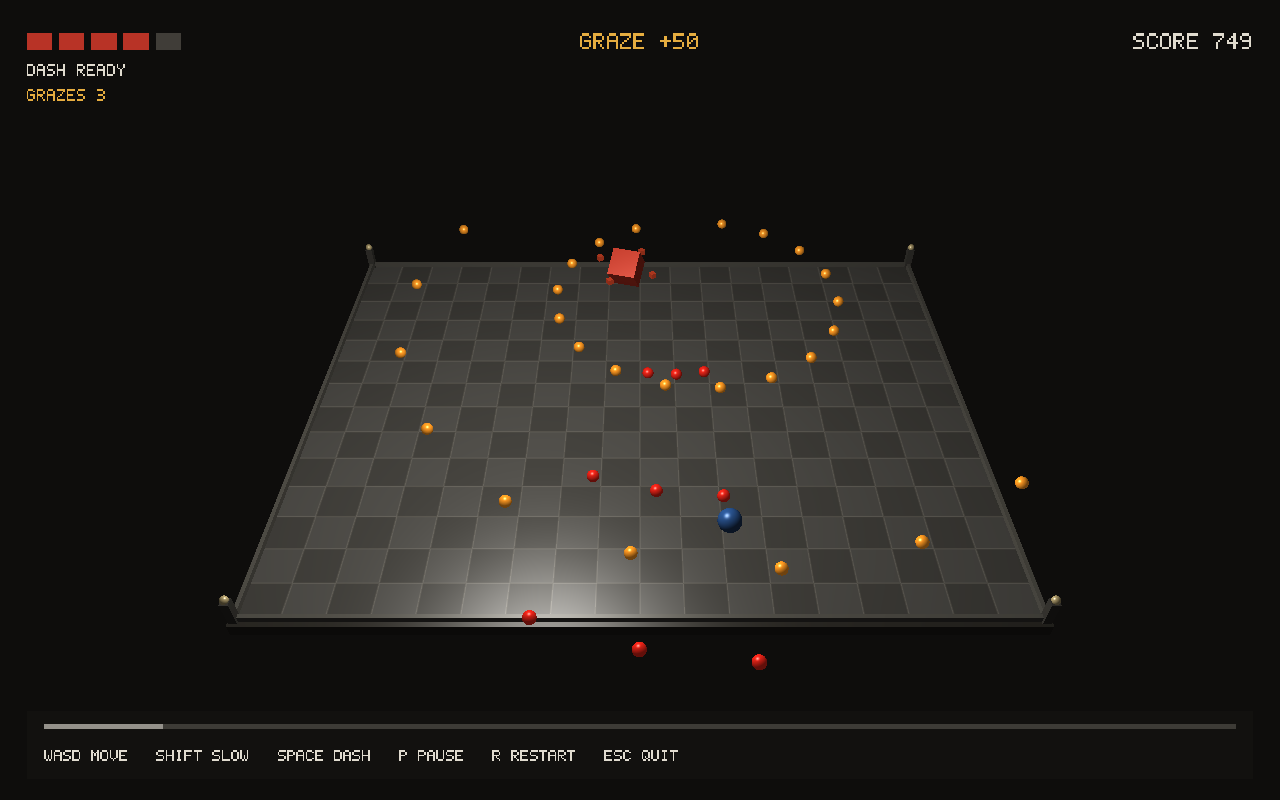
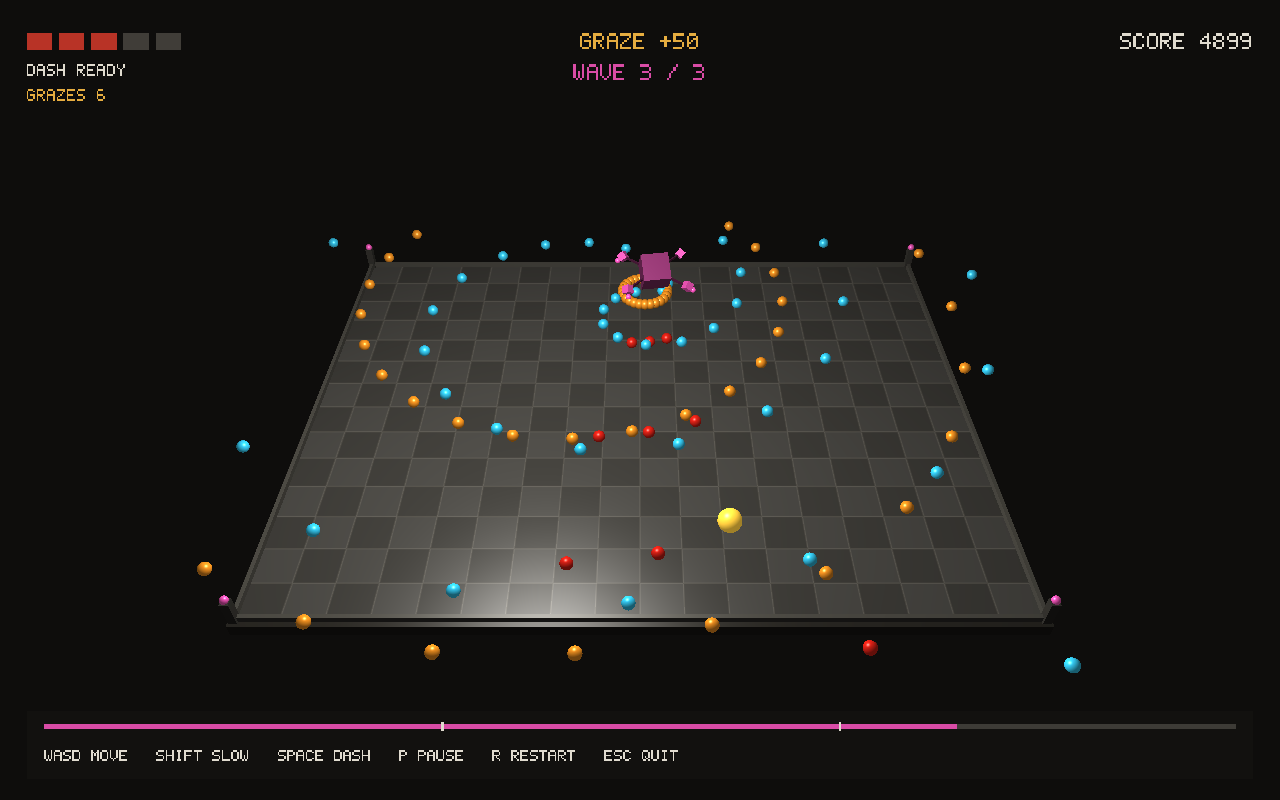
Update report and slides for integrated rendering

diff --git a/tools/make_submission.py b/tools/make_submission.py
@@ -181,20 +181,20 @@ def make_slides():
 
     slide = base_slide(pres, "The actual running scene", 4)
     slide.shapes.add_picture(str(screenshot), Inches(2.65), Inches(1.45), width=Inches(8.0))
-    add_text(slide, "Figure 1: captured from the 360-frame OpenGL smoke test", 2.65, 6.58, 8, 0.32, 15, MUTED)
+    add_text(slide, "Figure 1: actual third-wave OpenGL smoke capture", 2.65, 6.58, 8, 0.32, 15, MUTED)
 
     slide = base_slide(pres, "Geometry, camera, and shading", 5)
     bullet(slide, "Cube and generated sphere meshes use positions, normals, and UVs.", 1.55)
-    bullet(slide, "GLM builds model, lookAt view, and perspective projection matrices.", 2.45)
-    bullet(slide, "One fragment shader adds ambient, diffuse, specular, and emission.", 3.35)
-    bullet(slide, "A simple local light keeps the shapes readable during play.", 4.25)
+    bullet(slide, "Boss parent → orbit pivot → satellite → beacon inherit transforms.", 2.45)
+    bullet(slide, "GLM builds model, lookAt view, and perspective projection matrices.", 3.35)
+    bullet(slide, "The fragment shader adds ambient, diffuse, specular, and emission.", 4.25)
     add_text(slide, "Lectures L3–L5 and L9", 0.85, 5.8, 11, 0.4, 18, GOLD)
 
     slide = base_slide(pres, "Textures and animation", 6)
     bullet(slide, "C++ creates a 64×64 checker image and uploads it as an OpenGL texture.", 1.55)
     bullet(slide, "UV coordinates repeat the checker across the arena floor.", 2.45)
     bullet(slide, "World-space grid lines add a small procedural visual effect.", 3.35)
-    bullet(slide, "Sine movement and timers animate the boss and projectile patterns.", 4.25)
+    bullet(slide, "Time animates the boss; amber, blue, and magenta mark the waves.", 4.25)
     add_text(slide, "Lectures L8–L10", 0.85, 5.8, 11, 0.4, 18, GOLD)
 
     slide = base_slide(pres, "Gameplay code: small, testable rules", 7)
@@ -206,15 +206,15 @@ def make_slides():
 
     slide = base_slide(pres, "Testing and measured performance", 8)
     bullet(slide, "Rules test covers movement, collision, dash, graze, pause, restart, and win/loss.", 1.55)
-    bullet(slide, "OpenGL smoke test drew 360 frames with no GL errors.", 2.65)
-    bullet(slide, "One Xvfb + Mesa llvmpipe run: 88.2 frames/s, 205 MiB max RSS.", 3.75)
-    bullet(slide, "Software rendering at 1280×800; not a GPU benchmark.", 4.85, color=GOLD)
+    bullet(slide, "Three wave smoke checks drew 360 frames each with no GL errors.", 2.65)
+    bullet(slide, "Integrated wave 3: 35.8 frames/s, 224.7 MiB max RSS, 105 shots.", 3.75)
+    bullet(slide, "Single-run Xvfb software rendering at 1280×800.", 4.85, color=GOLD)
 
     slide = base_slide(pres, "Teamwork and academic integrity", 9)
     bullet(slide, "Mukhammed: gameplay, tests, integration, report and presentation drafts.", 1.55)
-    bullet(slide, "Ali: rendering, hierarchical boss model, shaders, and visual review (in progress).", 2.55)
+    bullet(slide, "Ali: hierarchical boss and wave visuals in main.cpp; rendering checks.", 2.55)
     bullet(slide, "Both retain original Git history and commit under their own identities.", 3.55)
-    bullet(slide, "Codex assisted with planning, code suggestions, testing, and documents.", 4.55)
+    bullet(slide, "Codex assisted both students with code, testing, and documents.", 4.55)
     add_text(slide, "Every submitted result needs student review and explanation.",
              0.85, 5.75, 11.8, 0.55, 20, GOLD)
 

diff --git a/docs/REPORT_DRAFT.md b/docs/REPORT_DRAFT.md
@@ -10,9 +10,9 @@
 
 Orbit Bullet Hell is a short C++ and OpenGL game in which the player survives a 60-second encounter with a moving boss. It was made to demonstrate the graphics pipeline taught in Computer Graphics Fundamentals while still being a complete interactive application. The player moves on an arena, avoids projectiles, gains points for surviving and narrowly missing a shot, and can slow down or dash to react to difficult patterns. The scene gives us a concrete reason to use geometry, transformations, a perspective camera, lighting, texture coordinates, GPU buffers, animation, and a two-dimensional heads-up display (HUD). Figure 1 shows an actual frame from the tested build.
 
-![Figure 1. Orbit Bullet Hell running on Mesa llvmpipe.](figures/gameplay.png)
+![Figure 1. Integrated third-wave scene running on Mesa llvmpipe.](figures/gameplay.png)
 
-Figure 1 illustrates the 3D arena, textured floor, boss, moving projectiles, player, and HUD. The capture was produced by the game's OpenGL smoke-test mode. The YouTube demonstration and code walkthrough will be available at the link on the title page after the team publishes it.
+Figure 1 illustrates the 3D arena, textured floor, hierarchical boss, moving projectiles, player, and HUD. The magenta wave label and progress bar identify wave 3; red shots are aimed, amber shots are radial, and cyan shots belong to the rotating stream. The capture was produced by `--smoke-wave 3`, a rendering test shortcut that starts at the third-wave boundary. It does not claim a player survived the earlier waves. The YouTube demonstration and code walkthrough will be available at the link on the title page after the team publishes it.
 
 ## 2. Literature Review and Background
 
@@ -24,7 +24,7 @@ Reeves [9] introduced particle systems as an approach to animated visual effects
 
 Collision work by Klosowski et al. [14] and Teschner et al. [15] shows techniques for larger or deformable scenes. Our projectiles and player are rigid spheres. Checking the distance from each projectile center to the player center once per fixed update is sufficient for the tested active projectile count. The comparison matters because it explains why we did not add a spatial tree or physics engine to a small student project.
 
-All 15 references are peer-reviewed articles in journals selected for Q1/Q2 standing in the relevant computer-science categories. Journal rankings depend on year and category; the venue checks and DOI links are recorded in `docs/RESEARCH_NOTES.md`. These papers are contextual sources. We do not claim to implement their advanced rendering or collision algorithms.
+All 15 research articles appear in five journals listed as Q1 or Q2 in the 2024 Journal Citation Reports JIF quartiles [16]. The categories are Computer Science, Software Engineering for four venues and Computer Science, Hardware & Architecture for IEEE Transactions on Computers. These are venue rankings for that year, not article-level ratings or historical ranks at publication. The venue checks and DOI links are recorded in `docs/RESEARCH_NOTES.md`. These papers are contextual sources; we do not claim to implement their advanced rendering or collision algorithms.
 
 ## 3. Project Description
 
@@ -48,9 +48,9 @@ C++17 holds the game state and updates it. GLFW creates the window and reads key
 
 ### 4.2 Development Process and Teamwork
 
-The team started with a playable core, then added dash and graze mechanics and made the three waves distinct. Mukhammed owns gameplay and test files; Ali owns the rendering and shader files for the hierarchical boss and visual pass. We communicate in `docs/coordination/` in the shared repository, review one another's commits, and run the same build and tests after integration. Each person commits under their own identity. Commit count is a rough coordination signal, not a substitute for explaining actual contributions.
+The team started with a playable core, then added dash and graze mechanics and made the three waves distinct. Mukhammed developed gameplay rules, tests, integration, and submission drafts. Ali built the hierarchical boss and wave visual feedback in `main.cpp`, tested all three rendering waves, and reviewed the report. The existing GLSL shader files did not change in Ali's rendering pass. We communicate in `docs/coordination/` in the shared repository, review one another's commits, and run the same build and tests after integration. Each person commits under their own identity. Commit count is a rough coordination signal, not a substitute for explaining actual contributions.
 
-Codex assisted Mukhammed with planning, implementation suggestions, debugging, documentation, and preparation of report materials. The students must read, test, and be able to explain every submitted change. This assistance is disclosed here as required by the syllabus; commit authorship identifies the student directing the work.
+Codex assisted Mukhammed with planning, implementation suggestions, debugging, documentation, and preparation of report materials. Ali also used Codex while implementing, validating, and documenting his rendering pass. The students must read, test, and be able to explain every submitted change. This assistance is disclosed here as required by the syllabus; commit authorship identifies the student directing the work.
 
 ### 4.3 Algorithms and Techniques
 
@@ -58,7 +58,7 @@ The game logic advances in fixed steps of 1/120 second. The render loop collects
 
 Each bullet stores position and velocity. At each step, position changes by velocity multiplied by the time step. A collision occurs when the squared center distance is no greater than the squared sum of the player and bullet radii. A larger radius detects a near miss after a non-hit. The squared comparison avoids a square root in the frequent collision loop. Timers determine when aimed, radial, and rotating shots spawn. The boss position and visual rotation use sine or elapsed-time angles. Shots outside the arena are removed so the active list stays bounded.
 
-For rendering, model matrices place and size meshes, a `lookAt` view matrix aims the camera, and a perspective matrix projects the 3D scene. The vertex shader transforms each vertex through model, view, and projection matrices. The fragment shader samples the floor texture and applies a local light. The HUD is built from colored quads, including a tiny 5-by-7 bitmap-style font, then drawn with alpha blending after the 3D scene.
+For rendering, model matrices place and size meshes, a `lookAt` view matrix aims the camera, and a perspective matrix projects the 3D scene. The vertex shader transforms each vertex through model, view, and projection matrices. Ali's boss uses a translated and rotating parent matrix. Core and heart transforms are children of that parent; orbit pivots hold arms and satellites; small beacons inherit each satellite's transform. The code composes parent and local matrices before drawing. Scale is applied only at the mesh leaves so a scaled core cannot stretch its sibling orbits. The vertex shader uses the inverse transpose of the model matrix for normals after nonuniform scaling. The fragment shader samples the floor texture and applies a local light. The HUD is built from colored quads, including a tiny 5-by-7 bitmap-style font, then drawn with alpha blending after the 3D scene.
 
 ## 5. Graphics and Rendering
 
@@ -72,25 +72,25 @@ The fragment shader calculates a normal, light direction, view direction, diffus
 
 ### 5.3 Texturing and Animation
 
-The checkerboard floor texture is generated in C++ as a 64-by-64 RGB image, uploaded with `glTexImage2D`, and sampled through UV coordinates in the fragment shader. `GL_REPEAT` repeats it across the floor. A separate grid is computed from world coordinates with `fract`, `fwidth`, and `smoothstep`; it is a simple procedural visual effect. The boss moves with time-based sine functions, and the projectile patterns change by wave. The player flashes briefly after damage; the HUD marks health, score, graze events, dash readiness, controls, and round progress. These features connect to lectures L8–L10.
+The checkerboard floor texture is generated in C++ as a 64-by-64 RGB image, uploaded with `glTexImage2D`, and sampled through UV coordinates in the fragment shader. `GL_REPEAT` repeats it across the floor. A separate grid is computed from world coordinates with `fract`, `fwidth`, and `smoothstep`; it is a simple procedural visual effect. The boss's parent bobs and rotates, its satellites orbit faster and farther in later waves, and the beacons inherit the satellites' motion. These movements use elapsed game time, so pause and restart also control the animation. Wave 1 uses amber, wave 2 blue, and wave 3 magenta on the boss, arena corner lights, wave label, and progress bar. Cyan spiral bullets remain distinct from red aimed bullets and amber radial bullets. The player flashes after damage and brightens during dash or graze; the HUD marks health, score, dash readiness, controls, and round progress. These features connect to lectures L8–L10.
 
 ## 6. Testing and Evaluation
 
 ### 6.1 Testing Methodology
 
-The CMake `game_rules` test checks movement speed, arena bounds, dash protection and cooldown, collision grace period, one-time graze scoring, pause and restart, distinct wave patterns, loss, and survival to the 60-second win. The OpenGL smoke test runs 360 rendered frames, checks OpenGL errors, and saves a screenshot. Both passed on the current code. A student should also play the full round on the presentation computer and check controls, readability, window size, and the win and loss screens; the headless test cannot replace that interaction check.
+The CMake `game_rules` test checks movement speed, arena bounds, dash protection and cooldown, collision grace period, one-time graze scoring, pause and restart, distinct wave patterns, loss, and survival to the 60-second win. It passed on the integrated code. Three OpenGL smoke checks each ran 360 rendered frames at the wave 1, 2, and 3 boundaries, checked GL errors, and saved screenshots. All passed. We also recorded and inspected real gameplay footage showing movement, pause, game over, and restart. A student should still play the full round on the presentation computer and check controls, readability, window size, and the win and loss screens; a scripted recording cannot replace that human review.
 
 ### 6.2 Performance Evaluation
 
-One 360-frame smoke run on 9 November 2026 took 4.081 seconds for the game process, or about 88.2 rendered frames per second; maximum resident memory for that child process was about 205 MiB. The machine had an AMD Ryzen 7 7735HS. Rendering used Mesa 26.2.3 `llvmpipe` through Xvfb at 1280 by 800 pixels, so this measures CPU software rendering rather than a dedicated GPU. Vsync was off in smoke mode. The measured active bullet count at the end was 35. These are a single-run development measurement, not a claim about every computer or a complete 60-second session.
+One integrated-build wave-3 smoke run on 9 November 2026 took 10.042 seconds for 360 frames, or about 35.8 rendered frames per second. Maximum resident memory for the child process was about 224.7 MiB, and 105 projectiles were active at the end. The machine had an AMD Ryzen 7 7735HS. Rendering used Mesa 26.2.3 `llvmpipe` through Xvfb at 1280 by 800 pixels, so this measures CPU software rendering rather than a dedicated GPU. Vsync was off in smoke mode. This is a single-run development measurement, not a claim about every computer or a complete 60-second session. The relatively dense sphere mesh drawn for each small bullet is a likely cost; Ali is checking a simpler mesh for the final build.
 
 ### 6.3 Issues and Debugging
 
-The project needed a headless rendering path because this workspace's normal desktop display was not reliable for automated checks. Xvfb with Mesa's software OpenGL renderer let us compile shaders, draw frames, check errors, and capture Figure 1. The game uses a fixed update step to reduce differences between fast and slow displays. Projectile removal limits growth of the bullet list. Moving diagonal input is normalized, and pause freezes timers, preventing inconsistent play. The final visual review and video must use the integrated version after Ali's rendering commits.
+The project needed a headless rendering path because this workspace's normal desktop display was not reliable for automated checks. Xvfb with Mesa's software OpenGL renderer let us compile shaders, draw frames, check errors, and capture Figure 1. A virtual display initially paused the game after a focus-loss event; the recording script now focuses the window and resumes play before capturing. The game uses a fixed update step to reduce differences between fast and slow displays. Projectile removal limits growth of the bullet list. Moving diagonal input is normalized, and pause freezes timers, preventing inconsistent play. The final video should be regenerated after the last rendering change.
 
 ## 7. Conclusion and Future Work
 
-Orbit Bullet Hell combines a complete 60-second game loop with the graphics techniques required by the course: geometry, transformations, camera projection, GPU buffers, fragment shading, texturing, procedural detail, animation, and a HUD. The rules and current OpenGL smoke checks pass. The main limitation is the deliberately simple geometry and lighting. Future work could add sound, more boss forms, particle effects, shadows, and a broader performance comparison, if they remain understandable and useful to gameplay. The final team review will confirm the visual pass and the public demo link before submission.
+Orbit Bullet Hell combines a complete 60-second game loop with the graphics techniques required by the course: geometry, hierarchical transformations, camera projection, GPU buffers, fragment shading, texturing, procedural detail, animation, and a HUD. The rules and all three OpenGL wave checks pass. The main limitations are simple lighting and performance on software rendering with many projectiles. Future work could add sound, more boss forms, particle effects, shadows, and a broader hardware performance comparison, if they remain understandable and useful to gameplay. The final team review will confirm the public demo link before submission.
 
 ## 8. References
 
@@ -109,6 +109,8 @@ Orbit Bullet Hell combines a complete 60-second game loop with the graphics tech
 [13] C. Crassin et al., “Interactive Indirect Illumination Using Voxel Cone Tracing,” *Computer Graphics Forum*, 2011. https://doi.org/10.1111/j.1467-8659.2011.02063.x  
 [14] J. Klosowski et al., “Efficient collision detection using bounding volume hierarchies of k-DOPs,” *IEEE Transactions on Visualization and Computer Graphics*, 1998. https://doi.org/10.1109/2945.675649  
 [15] M. Teschner et al., “Collision Detection for Deformable Objects,” *Computer Graphics Forum*, 2005. https://doi.org/10.1111/j.1467-8659.2005.00829.x
+
+[16] 2024 Journal Citation Reports JIF quartile list, institutional PDF released June 2025. https://cdn.umfcluj.ro/uploads/2024/08/JCR_2024_iunie2025.pdf
 
 ## 9. Appendix
 

diff --git a/docs/DEVELOPMENT_PLAN.md b/docs/DEVELOPMENT_PLAN.md
@@ -17,7 +17,7 @@
 | Shading (L5-2) | Ambient, diffuse, specular, emission | Refine readable lighting and explain the equations |
 | Pixels, buffers, blending (L7) | Depth buffer, blended HUD, screenshot readback | Document depth/blend order and screenshot path |
 | Texture mapping (L8) | UV-mapped checkerboard texture and grid shader | Improve texture filtering if it benefits the scene |
-| Hierarchical models (L9) | Boss parts currently positioned separately | Make child positions follow a boss parent transform |
+| Hierarchical models (L9) | Boss parent, orbit pivots, satellites, and beacon children inherit transforms | Explain parent/local matrix composition in report and demo |
 | Procedural methods (L10) | Procedural checkerboard and time-based attack patterns | Add one restrained time-based visual effect if performance allows |
 
 The syllabus requires a buildable repository, a 3–6 minute demo, a report using the course template, and a slide deck. Its grading emphasizes technical correctness, visual quality/performance, interaction, documentation, report, and presentation. The submission instruction requires **three separate files**: presentation, PDF report containing a public YouTube demonstration link, and source ZIP. The supplied report template requires Introduction, Literature Review, Project Description, Technical Implementation, Graphics and Rendering, Testing and Evaluation, Conclusion and Future Work, References, and an optional Appendix. It explicitly asks for at least **15 sources from credible Q1/Q2 journals** in the literature review, performance evaluation, and a figure citation in the surrounding text.
@@ -25,9 +25,9 @@ The syllabus requires a buildable repository, a 3–6 minute demo, a report usin
 ## Milestones and ownership
 
 1. **Plan and integration baseline (Muhammad):** keep original history, record this plan, build and test, coordinate file ownership. Done when the plan is committed and Ali can read it.
-2. **Graphics and model (Ali):** own `main.cpp`, `scene.vert`, and `scene.frag`. Make the boss a clear hierarchical model; improve visual feedback and polish while keeping OpenGL 3.3 and simple readable code. Describe what changed in `docs/coordination/from-ali.md` and commit under Ali's real identity.
-3. **Gameplay (Muhammad):** own `game.h`, `game.cpp`, and `game_tests.cpp`. Make waves mechanically distinct and ensure win/loss, dash, grazing, bounds, and pause remain correct. Commit under Muhammad's real identity.
-4. **Integration (Muhammad with Ali):** pull both sets of commits, resolve any conflicts, run CMake build, `ctest`, and the Xvfb OpenGL smoke test. Review the screenshot together. Measure a simple frame rate in the report, with hardware and method stated.
+2. **Graphics and model (Ali):** own `main.cpp`, `scene.vert`, and `scene.frag`. Make the boss a clear hierarchical model; improve visual feedback and polish while keeping OpenGL 3.3 and simple readable code. Describe what changed in `docs/coordination/from-ali.md` and commit under Ali's real identity. The hierarchy and wave visual pass are merged; a small sphere-mesh performance review is in progress.
+3. **Gameplay (Mukhammed):** own `game.h`, `game.cpp`, and `game_tests.cpp`. Make waves mechanically distinct and ensure win/loss, dash, grazing, bounds, and pause remain correct. Complete and tested.
+4. **Integration (Mukhammed with Ali):** pull both sets of commits, resolve any conflicts, run CMake build, `ctest`, and the Xvfb OpenGL smoke test. Review the screenshot together. Measure a simple frame rate in the report, with hardware and method stated. Build, CTest, and all three wave smoke checks pass; final performance number follows the mesh review.
 5. **Submission (both):** record a 3–6 minute demonstration, publish it publicly on YouTube, and put its exact URL in the PDF report. Prepare a slide deck, PDF report following the supplied template, and source ZIP as separate files. Verify at least 15 relevant Q1/Q2 journal articles for the literature review; cite the supplied lectures where used. List actual contributions and include a truthful AI-use disclosure. Both students should be able to explain the code.
 
 ## Scope and acceptance checks

diff --git a/docs/RESEARCH_NOTES.md b/docs/RESEARCH_NOTES.md
@@ -1,6 +1,14 @@
 # Literature review notes
 
-The supplied report template asks for at least 15 sources from Q1/Q2 journals. The 15 articles below have publisher DOI records and come from *Communications of the ACM*, *ACM Transactions on Graphics*, *Computer Graphics Forum*, *IEEE Transactions on Computers*, or *IEEE Transactions on Visualization and Computer Graphics*. Journal quartiles vary by year and subject category; check the course's preferred index before submitting. These are background sources, **not** a claim that the game implements every method.
+The supplied report template asks for at least 15 sources from Q1/Q2 journals. The 15 articles below have publisher DOI records and come from five journals whose **2024 Journal Citation Reports JIF quartiles** are Q1 or Q2 in the categories shown below. The [institutional copy of the 2024 JCR list, released in June 2025](https://cdn.umfcluj.ro/uploads/2024/08/JCR_2024_iunie2025.pdf), gives the venue, category, and JIF quartile. Quartiles are journal-level and depend on the selected year, index, and subject category; these values do not state a rank for each article in its original publication year. These are background sources, **not** a claim that the game implements every method.
+
+| Journal | 2024 JCR category | JIF quartile |
+| --- | --- | --- |
+| *Communications of the ACM* | Computer Science, Software Engineering | Q1 |
+| *ACM Transactions on Graphics* | Computer Science, Software Engineering | Q1 |
+| *Computer Graphics Forum* | Computer Science, Software Engineering | Q2 |
+| *IEEE Transactions on Computers* | Computer Science, Hardware & Architecture | Q2 |
+| *IEEE Transactions on Visualization and Computer Graphics* | Computer Science, Software Engineering | Q1 |
 
 | No. | Article | Journal and DOI | Use in our report |
 | --- | --- | --- | --- |
@@ -20,4 +28,4 @@ The supplied report template asks for at least 15 sources from Q1/Q2 journals. T
 | 14 | Crassin et al., “Interactive Indirect Illumination Using Voxel Cone Tracing” (2011) | *Computer Graphics Forum*, [10.1111/j.1467-8659.2011.02063.x](https://doi.org/10.1111/j.1467-8659.2011.02063.x) | Another advanced indirect light approach beyond our small shader. |
 | 15 | Bourque and Dudek, “Procedural Texture Matching and Transformation” (2004) | *Computer Graphics Forum*, [10.1111/j.1467-8659.2004.00777.x](https://doi.org/10.1111/j.1467-8659.2004.00777.x) | Procedural texture design background; our repeating checker is intentionally simpler. |
 
-Quartile checks used while selecting venues: [ACM journal report (2025)](https://www.acm.org/binaries/content/assets/press-releases/2025/july/news-release_impact_factors_2025_final.pdf), [IEEE journal title list (2025)](https://open.ieee.org/wp-content/uploads/IEEE-Title-List-January-2025.pdf), and the [2024 JCR list for *Computer Graphics Forum*](https://cdn.umfcluj.ro/uploads/2024/08/JCR_2024_iunie2025.pdf). The course's specified Q1/Q2 measure should be checked against these when finalizing the PDF.
+Additional publisher cross-checks: [ACM journal report (2025)](https://www.acm.org/binaries/content/assets/press-releases/2025/july/news-release_impact_factors_2025_final.pdf) and [IEEE journal title list (2025)](https://open.ieee.org/wp-content/uploads/IEEE-Title-List-January-2025.pdf). The JCR source above supplies one consistent ranking measure for all five venues.

diff --git a/docs/coordination/to-ali.md b/docs/coordination/to-ali.md
@@ -9,3 +9,9 @@ Please write `docs/coordination/from-ali.md` with your intended design, files to
 We also need a 3–6 minute public YouTube demo URL for the PDF report. Please say in your reply whether you can help record/upload it. Muhammad supplied the Final Project Report Template. It requires a literature review with at least 15 Q1/Q2 journal sources and sections for implementation, graphics, testing, performance, conclusion, and references. If you can identify 5–7 verified relevant journal papers and send DOI/URL plus one sentence on relevance, that would help us complete it without invented citations.
 
 **Report and slides update:** Mukhammed has added `docs/REPORT_DRAFT.md`, `docs/RESEARCH_NOTES.md`, and a screenshot. The title page now uses Mukhammed Sailau and Ali Turlas, IT-2507, instructor Saleshova Sabina. A ten-slide presentation and template-based PDF draft are generated locally. Please review the draft for accuracy once your rendering work is integrated. The public YouTube URL is deliberately marked for later insertion; Mukhammed said he can insert it after upload. The current report performance figure is a single Xvfb/Mesa software-rendering run (360 frames, 88.2 frames/s, 205 MiB max RSS), so we should re-check it if your changes significantly affect rendering.
+
+## Integration review — 2026-11-09
+
+I merged your `ali/hierarchical-boss` and `ali/rendering-handoff` branches locally, then built the integrated game, passed CTest, and passed `--smoke-wave 1`, `2`, and `3` on my machine. The wave-3 screenshot looks clear and shows the hierarchy and cyan spiral stream. Thank you for the precise handoff and report corrections; I am updating the documents and video accordingly.
+
+One performance issue remains: in a separate single-run wave-3 check on my Ryzen 7 7735HS with Mesa 26.2.3 llvmpipe at 1280×800, 360 frames took 10.042 s (35.8 frames/s) with 105 active projectiles and 224.7 MiB max RSS. This is software rendering, not hardware GPU speed. The current sphere uses 20 rows × 28 columns; each tiny bullet draws far more triangles than it needs. Please make a small rendering optimization in your owned `main.cpp`, such as reducing sphere rows/columns to about 12 × 16, then check the wave-3 screenshot and measure the same smoke command again. Keep the player and bullets visually round enough and preserve all gameplay rules. Please put your result in `docs/coordination/from-ali.md` and commit it under your own identity on a branch for review. I will continue the report and submission work while you do this.

diff --git a/README.md b/README.md
@@ -2,6 +2,8 @@
 
 A small C++17 and OpenGL 3.3 survival game. Move around the arena, dodge the boss's aimed fans and radial volleys, and survive for 60 seconds. Wave two adds a rotating projectile stream; wave three fires opposite streams with a faster rhythm.
 
+The boss is a hierarchical model: its core, orbiting satellites, and small beacon children inherit a parent transform. The arena and HUD change from amber to blue to magenta across the waves. Cyan shots mark the rotating stream.
+
 ## Build and run
 
 Install a C++17 compiler, CMake 3.16 or newer, OpenGL development files, GLFW 3.3 or newer, GLEW, and GLM. On Arch Linux, the library packages are `glfw`, `glew`, and `glm`.
@@ -33,7 +35,7 @@ The HUD shows health, score, round progress, dash readiness, and near misses. A 
 ctest --test-dir build --output-on-failure
 ```
 
-`bullethell --smoke-test` runs a short rendering check when an OpenGL display is available. Add `--screenshot output.ppm` to save its final frame.
+`bullethell --smoke-test` runs a short rendering check when an OpenGL display is available. Use `--smoke-wave 1`, `2`, or `3` to start that check at a wave boundary; this does not change normal play. Add `--screenshot output.ppm` to save its final frame.
 
 On a headless Linux machine with Xvfb installed, run the rendering check on a virtual display:
 
@@ -48,4 +50,4 @@ This repository keeps the original commit history from [`at254135/our-game`](htt
 
 ## AI use
 
-Codex assisted Muhammad with planning, implementation suggestions, debugging, tests, and documentation. The team must review and understand every submitted change, verify the results, and disclose this assistance in the final report and presentation. Commit authorship reflects the student directing each change, not the AI tool.
+Codex assisted Mukhammed with planning, implementation suggestions, debugging, tests, and documentation. Ali used Codex for his hierarchical rendering implementation, validation, and handoff. The team must review and understand every submitted change, verify the results, and disclose this assistance in the final report and presentation. Commit authorship reflects the student directing each change, not the AI tool.
